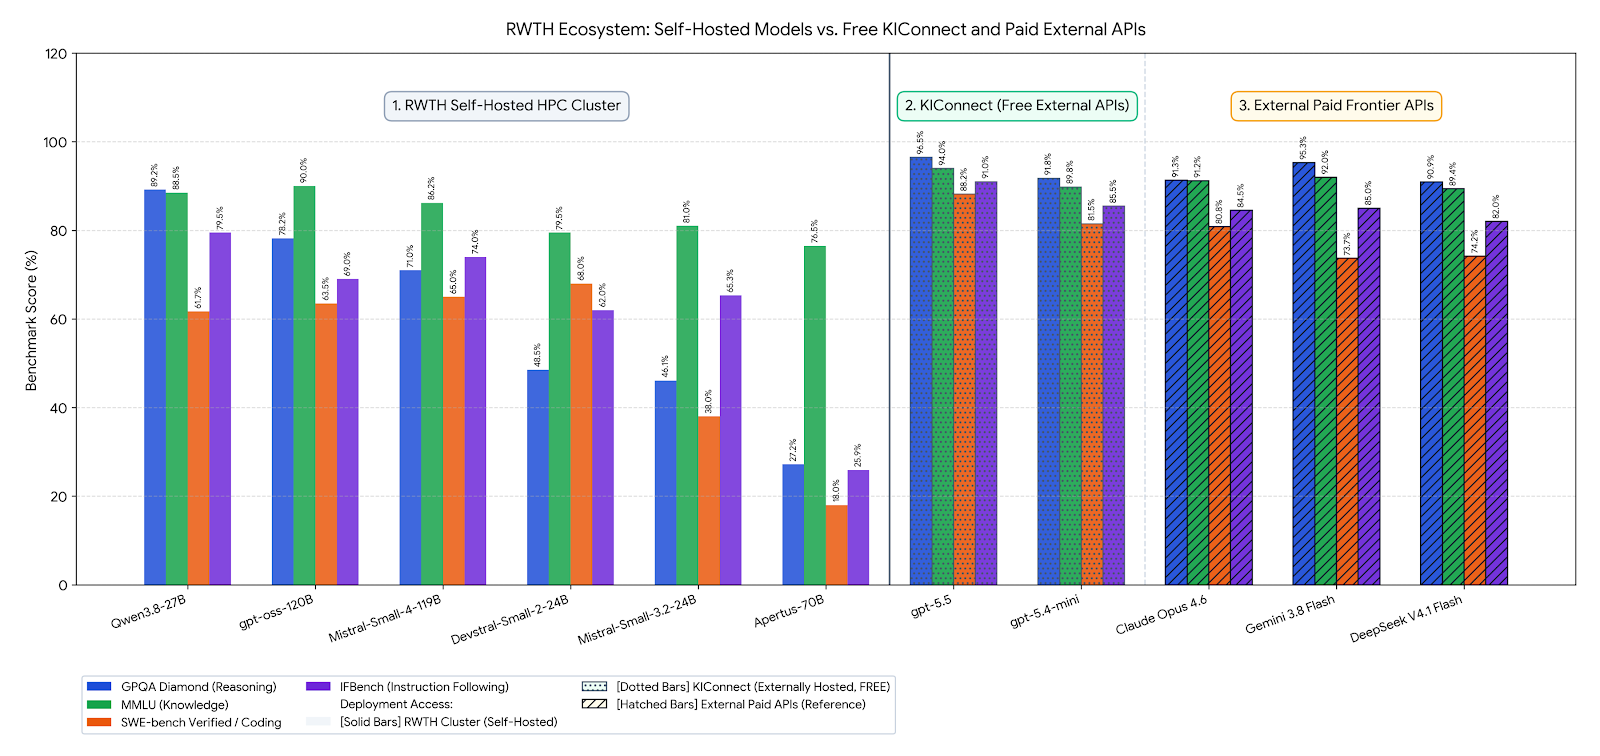
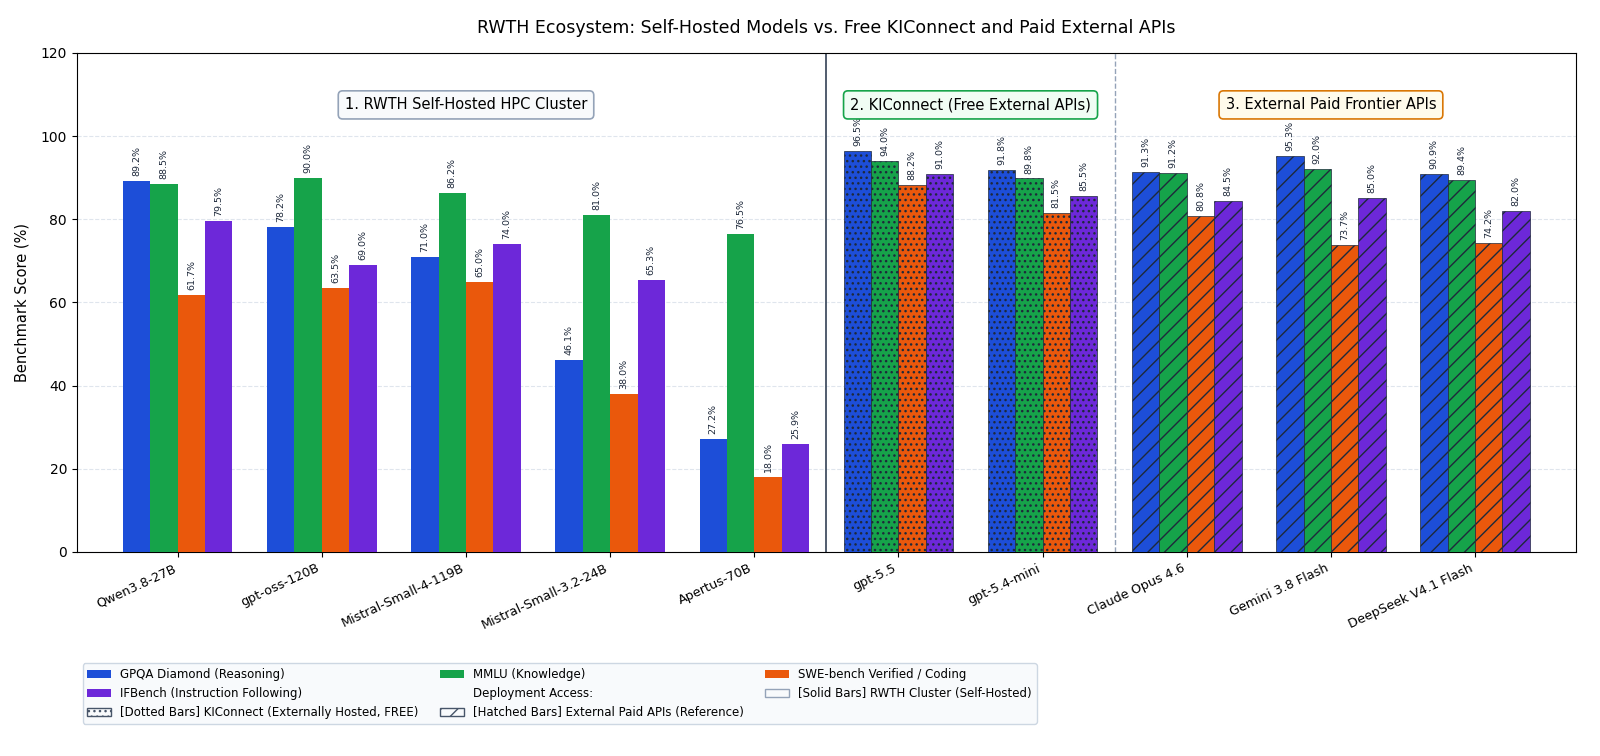
feat: update active models, drop discontinued Devstral, and refresh benchmarks

diff --git a/src/models.ts b/src/models.ts
@@ -58,6 +58,38 @@ export const KICONNECT_DEFAULT_MODELS: Record<string, KIConnectModelDefinition> 
     },
   },
 
+  // --- Mistral Small 3.2 24B ---
+  "mistral-small-3.2-24b": {
+    id: "Mistral-Small-3.2-24B",
+    name: "Mistral Small 3.2 24B (KI:connect)",
+    attachment: false,
+    tool_call: true,
+    limit: {
+      context: 131_072, // 128K context
+      output: 16_384,
+    },
+    modalities: {
+      input: ["text"],
+      output: ["text"],
+    },
+  },
+
+  // --- Apertus 70B ---
+  "apertus-70b": {
+    id: "Apertus-70B",
+    name: "Apertus 70B (KI:connect)",
+    attachment: false,
+    tool_call: true,
+    limit: {
+      context: 65_536, // 64K context
+      output: 8_192,
+    },
+    modalities: {
+      input: ["text"],
+      output: ["text"],
+    },
+  },
+
   // --- GPT 5.4 Mini (Commercial via OpenAI) ---
   "gpt-5.4-mini": {
     id: "gpt-5.4-mini",

diff --git a/src/constants.ts b/src/constants.ts
@@ -29,6 +29,15 @@ export const MODEL_ALIASES: Record<string, string> = {
   "mistral-119b": "mistralai-mistral-small-4-119b",
   "mistralai-mistral-small-4-119b": "mistralai-mistral-small-4-119b",
 
+  // Mistral Small 3.2
+  "mistral-small-3.2-24b": "Mistral-Small-3.2-24B",
+  "mistral-small-3.2": "Mistral-Small-3.2-24B",
+  "mistral-3.2-24b": "Mistral-Small-3.2-24B",
+
+  // Apertus
+  "apertus-70b": "Apertus-70B",
+  "apertus": "Apertus-70B",
+
   // GPT OSS
   "gpt-oss": "gpt-oss-120b",
   "gpt-oss-120b": "gpt-oss-120b",

diff --git a/scripts/generate_benchmarks_graph.py b/scripts/generate_benchmarks_graph.py
@@ -1,0 +1,162 @@
+import matplotlib.pyplot as plt
+import numpy as np
+from matplotlib.patches import Patch
+
+# Set font family
+plt.rcParams["font.sans-serif"] = ["DejaVu Sans", "Arial", "Helvetica", "sans-serif"]
+plt.rcParams["font.family"] = "sans-serif"
+
+# Exact canvas size matching original (1600 x 756 at 100 dpi)
+fig = plt.figure(figsize=(16, 7.56), dpi=100)
+ax = fig.add_subplot(111)
+
+# Models and scores (excluding discontinued Devstral-Small-2-24B)
+models_g1 = [
+    "Qwen3.8-27B",
+    "gpt-oss-120B",
+    "Mistral-Small-4-119B",
+    "Mistral-Small-3.2-24B",
+    "Apertus-70B",
+]
+models_g2 = [
+    "gpt-5.5",
+    "gpt-5.4-mini",
+]
+models_g3 = [
+    "Claude Opus 4.6",
+    "Gemini 3.8 Flash",
+    "DeepSeek V4.1 Flash",
+]
+
+all_models = models_g1 + models_g2 + models_g3
+n_models = len(all_models)
+
+scores = {
+    "Qwen3.8-27B": (89.2, 88.5, 61.7, 79.5),
+    "gpt-oss-120B": (78.2, 90.0, 63.5, 69.0),
+    "Mistral-Small-4-119B": (71.0, 86.2, 65.0, 74.0),
+    "Mistral-Small-3.2-24B": (46.1, 81.0, 38.0, 65.3),
+    "Apertus-70B": (27.2, 76.5, 18.0, 25.9),
+    "gpt-5.5": (96.5, 94.0, 88.2, 91.0),
+    "gpt-5.4-mini": (91.8, 89.8, 81.5, 85.5),
+    "Claude Opus 4.6": (91.3, 91.2, 80.8, 84.5),
+    "Gemini 3.8 Flash": (95.3, 92.0, 73.7, 85.0),
+    "DeepSeek V4.1 Flash": (90.9, 89.4, 74.2, 82.0),
+}
+
+colors = ["#1d4ed8", "#16a34a", "#ea580c", "#6d28d9"]
+bar_width = 0.19
+x_indices = np.arange(n_models)
+
+# Draw bars
+for i, m in enumerate(all_models):
+    m_scores = scores[m]
+    if i < len(models_g1):
+        hatch = ""
+        edgecolor = "none"
+        linewidth = 0
+    elif i < len(models_g1) + len(models_g2):
+        hatch = "..."
+        edgecolor = "#1e293b"
+        linewidth = 0.5
+    else:
+        hatch = "//"
+        edgecolor = "#1e293b"
+        linewidth = 0.5
+    
+    for b_idx in range(4):
+        x = x_indices[i] + (b_idx - 1.5) * bar_width
+        val = m_scores[b_idx]
+        ax.bar(
+            x, val, width=bar_width,
+            color=colors[b_idx],
+            hatch=hatch,
+            edgecolor=edgecolor,
+            linewidth=linewidth,
+            zorder=3
+        )
+        # Value label on top of bar rotated 90 degrees
+        ax.text(
+            x, val + 1.2, f"{val:.1f}%",
+            ha="center", va="bottom",
+            rotation=90, fontsize=6.8,
+            fontweight="normal", color="#1e293b",
+            zorder=4
+        )
+
+# X axis formatting
+ax.set_xticks(x_indices)
+ax.set_xticklabels(all_models, rotation=25, ha="right", fontsize=9.2)
+ax.set_xlim(-0.7, n_models - 0.3)
+ax.set_ylim(0, 120)
+ax.set_ylabel("Benchmark Score (%)", fontsize=10.5, labelpad=8)
+ax.set_title("RWTH Ecosystem: Self-Hosted Models vs. Free KIConnect and Paid External APIs", fontsize=12.5, pad=14)
+
+# Horizontal grid
+ax.grid(axis="y", linestyle="--", alpha=0.6, color="#cbd5e1", zorder=1)
+ax.set_yticks([0, 20, 40, 60, 80, 100, 120])
+
+# Group dividers
+div1 = len(models_g1) - 0.5
+div2 = len(models_g1) + len(models_g2) - 0.5
+
+ax.axvline(div1, color="#334155", linestyle="-", linewidth=1.2, zorder=2)
+ax.axvline(div2, color="#94a3b8", linestyle="--", linewidth=1.0, zorder=2)
+
+# Section Badges at the top
+bbox_g1 = dict(boxstyle="round,pad=0.45,rounding_size=0.3", fc="#f8fafc", ec="#94a3b8", lw=1.2)
+ax.text(
+    (div1 - 0.5) / 2, 107.5,
+    "1. RWTH Self-Hosted HPC Cluster",
+    ha="center", va="center", fontsize=10.5,
+    bbox=bbox_g1, zorder=5
+)
+
+bbox_g2 = dict(boxstyle="round,pad=0.45,rounding_size=0.3", fc="#f0fdf4", ec="#16a34a", lw=1.2)
+ax.text(
+    div1 + (div2 - div1) / 2, 107.5,
+    "2. KIConnect (Free External APIs)",
+    ha="center", va="center", fontsize=10.5,
+    bbox=bbox_g2, zorder=5
+)
+
+bbox_g3 = dict(boxstyle="round,pad=0.45,rounding_size=0.3", fc="#fffbeb", ec="#d97706", lw=1.2)
+ax.text(
+    div2 + (n_models - 0.5 - div2) / 2, 107.5,
+    "3. External Paid Frontier APIs",
+    ha="center", va="center", fontsize=10.5,
+    bbox=bbox_g3, zorder=5
+)
+
+# Custom Legend matching original structure
+custom_order = [
+    Patch(facecolor=colors[0], label="GPQA Diamond (Reasoning)"),
+    Patch(facecolor=colors[3], label="IFBench (Instruction Following)"),
+    Patch(facecolor="#f8fafc", edgecolor="#475569", hatch="...", label="[Dotted Bars] KIConnect (Externally Hosted, FREE)"),
+    Patch(facecolor=colors[1], label="MMLU (Knowledge)"),
+    Patch(facecolor="none", edgecolor="none", label="Deployment Access:"),
+    Patch(facecolor="#f8fafc", edgecolor="#475569", hatch="//", label="[Hatched Bars] External Paid APIs (Reference)"),
+    Patch(facecolor=colors[2], label="SWE-bench Verified / Coding"),
+    Patch(facecolor="#f8fafc", edgecolor="#94a3b8", label="[Solid Bars] RWTH Cluster (Self-Hosted)"),
+]
+
+# Adjust subplots to reserve lower area for rotated labels and legend
+fig.subplots_adjust(left=0.048, right=0.985, top=0.93, bottom=0.27)
+
+fig.legend(
+    handles=custom_order,
+    loc="lower left",
+    bbox_to_anchor=(0.048, 0.035),
+    ncol=3,
+    fontsize=8.5,
+    frameon=True,
+    fancybox=True,
+    edgecolor="#cbd5e1",
+    facecolor="#f8fafc",
+    framealpha=0.95,
+    handletextpad=0.8,
+    columnspacing=1.8
+)
+
+plt.savefig("assets/benchmarks.png", dpi=100)
+print("Updated benchmarks.png saved successfully!")

diff --git a/README.md b/README.md
@@ -48,8 +48,19 @@ Understanding where models run is essential for IP protection, data privacy, and
 | `kiconnect/qwen-3.8-27b` | RWTH HPC (Inferenz NRW / WestAI) | Germany (local cluster, zero storage) | Live | 2026-08-13 |
 | `kiconnect/mistral-small-4-119b` | RWTH HPC (Inferenz NRW / WestAI) | Germany (local cluster, zero storage) | Live | 2026-03-16 |
 | `kiconnect/gpt-oss-120b` | RWTH HPC (Inferenz NRW / WestAI) | Germany (local cluster, zero storage) | Live | 2025-08-06 |
+| `kiconnect/mistral-small-3.2-24b` | RWTH HPC (Inferenz NRW / WestAI) | Germany (local cluster, zero storage) | Live | 2025-06-25 |
+| `kiconnect/apertus-70b` | RWTH HPC (Inferenz NRW / WestAI) | Germany (local cluster, zero storage) | Live | 2025-09-02 |
 | `kiconnect/gpt-5.4-mini` | OpenAI Cloud (via KI:connect proxy) | **External** (third-party cloud) | Live (quota-limited) | Commercial |
 | `kiconnect/gpt-5.5` | OpenAI Cloud (via KI:connect proxy) | **External** (third-party cloud) | Live (quota-limited) | Commercial |
+
+> **Note on Embedding Models:** The RWTH IT Center also hosts `Qwen3-Embedding-8B` (40K content length, released 2025-06-05) specifically for embeddings via `/v1/embeddings`. OpenCode interacts with chat and completion endpoints.
+
+#### Deprecated / Retired Models
+
+| Model | Hosting Provider | Deprecation Date | Released | Notes |
+| :--- | :--- | :--- | :--- | :--- |
+| `Devstral-Small-2-24B-Instruct-2512` | RWTH HPC | 2026-10-13 | 2025-12-09 | Replaced by active Mistral lineup |
+| `Mixtral-8x22B-Instruct-v0.1` | RWTH HPC | 2026-04-02 | 2024-04-17 | Retired MoE model |
 
 Official IT Center reference: [RWTH IT Center — LLM Hosting: Available Models](https://help.itc.rwth-aachen.de/service/5a9d03f1675f4f85ac9b3fd7bb853d44/article/eefe9314f19a42bd99d64b4df68780d5/)
 
@@ -60,10 +71,12 @@ Official IT Center reference: [RWTH IT Center — LLM Hosting: Available Models]
 | `kiconnect/qwen-3.8-27b` | 256k | 64k | Text, Vision | ~107 ms | ~63 tok/s |
 | `kiconnect/mistral-small-4-119b` | 256k | 32k | Text, Vision | ~48 ms | ~146 tok/s |
 | `kiconnect/gpt-oss-120b` | 128k | 16k | Text | ~52 ms | ~203 tok/s |
+| `kiconnect/mistral-small-3.2-24b` | 128k | 16k | Text | —* | —* |
+| `kiconnect/apertus-70b` | 64k | 8k | Text | —* | —* |
 | `kiconnect/gpt-5.4-mini` | 128k | 16k | Text | ~614 ms | ~316 tok/s |
 | `kiconnect/gpt-5.5` | 128k | 16k | Text | ~1930 ms | ~85 tok/s |
 
-*Benchmarks measured directly against live KI:connect endpoints with streaming completions.*
+*Benchmarks measured directly against live KI:connect endpoints with streaming completions. Latency/throughput metrics for newly re-activated models (`*`) will be benchmarked once the endpoint quota window refreshes.*
 
 ---
 
@@ -91,7 +104,7 @@ The following evaluation compares self-hosted models running on the RWTH HPC clu
 - **gpt-oss-120B:**
   - Release Card & Benchmarks: OpenAI Systems & Open Weights Technical Report ([OpenAI Research / GitHub](https://github.com/openai)).
   - Independent Trackers: [Artificial Analysis LLM Performance Index](https://artificialanalysis.ai/) and [Open LLM Leaderboard](https://huggingface.co/spaces/open-llm-leaderboard/open_llm_leaderboard).
-- **Mistral-Small-4-119B (and reference 3.2-24B / Devstral):**
+- **Mistral-Small-4-119B & Mistral-Small-3.2-24B:**
   - Official Specs & Evaluation: Mistral AI Documentation & Release Notes ([docs.mistral.ai](https://docs.mistral.ai)).
   - MoE & Reasoning Evaluations: [LMSYS Chatbot Arena](https://chat.lmsys.org/).
   - Developer & Agentic Specialization: Mistral AI Agentic Benchmarks Suite (SWE-bench verified release benchmarks).
@@ -118,7 +131,7 @@ The following evaluation compares self-hosted models running on the RWTH HPC clu
 
 ## Data Residency, NDAs & IP Protection
 
-- **Sovereign / Local (`qwen-3.8-27b`, `mistral-small-4-119b`, `gpt-oss-120b`)**: Data remains strictly within the RWTH HPC data center in Aachen. Under IT Center guidelines, prompts and generated texts are processed in volatile GPU memory and are **never saved, logged, or retained on disk**. Fully compliant with strict non-disclosure agreements (NDAs), trade secrets, patent research, and personal data requirements.
+- **Sovereign / Local (`qwen-3.8-27b`, `mistral-small-4-119b`, `gpt-oss-120b`, `mistral-small-3.2-24b`, `apertus-70b`)**: Data remains strictly within the RWTH HPC data center in Aachen. Under IT Center guidelines, prompts and generated texts are processed in volatile GPU memory and are **never saved, logged, or retained on disk**. Fully compliant with strict non-disclosure agreements (NDAs), trade secrets, patent research, and personal data requirements.
 - **Commercial (`gpt-5.4-mini`, `gpt-5.5`)**: Traffic is transmitted across network boundaries to commercial vendor servers (OpenAI). Do not use these models for proprietary, sensitive, or NDA-bound codebase analyses without explicit authorization.
 
 ---
@@ -146,6 +159,16 @@ The following evaluation compares self-hosted models running on the RWTH HPC clu
 - **Architecture**: OpenAI open-weight 120B model hosted locally on RWTH hardware.
 - **Context / Output**: 128K context, 16K output limit.
 - **Characteristics**: High throughput (~203 tok/s), strong reasoning and mathematics capabilities with 100% local data residency.
+
+### `kiconnect/mistral-small-3.2-24b`
+- **Architecture**: Compact 24B parameter dense model optimized for low-latency inference.
+- **Context / Output**: 128K context, 16K output limit.
+- **Characteristics**: Fast turnaround, high throughput, and solid overall coding and general language performance. 100% sovereign hosting on RWTH GPU clusters.
+
+### `kiconnect/apertus-70b`
+- **Architecture**: Swiss-AI open multilingual 70B model (quantized W4A16).
+- **Context / Output**: 64K context, 8K output limit.
+- **Characteristics**: Strong performance on multilingual and reasoning benchmarks; zero data retention or logging.
 
 ### `kiconnect/gpt-5.4-mini`
 - **Architecture**: Commercial lightweight model via OpenAI.
@@ -210,5 +233,5 @@ To create an API key: Log in to [chat.kiconnect.nrw](https://chat.kiconnect.nrw)
 
 - **"The model 'X' does not exist."**: Rebuild the plugin with `bun run build` and restart your OpenCode session so the latest catalog and upstream ID mappings are loaded.
 - **"The selected model does not support this operation."**: KI:connect serves models exclusively via standard `/v1/chat/completions`. The plugin uses `@ai-sdk/openai-compatible` to route cleanly through chat completions.
-- **"You exceeded your current quota for this period." (`429`)**: Periodic quota reached on commercial models (`gpt-5.4-mini`, `gpt-5.5`). Switch to a self-hosted model (`qwen-3.8-27b`, `mistral-small-4-119b`, `gpt-oss-120b`) which has no hard quota.
+- **"You exceeded your current quota for this period." (`429`)**: Periodic quota reached on commercial models (`gpt-5.4-mini`, `gpt-5.5`). Switch to a self-hosted model (`qwen-3.8-27b`, `mistral-small-4-119b`, `gpt-oss-120b`, `mistral-small-3.2-24b`, `apertus-70b`) which has no hard quota.
 - **Empty reasoning responses**: If a reasoning model emits no visible text, increase the agent's output token allowance.
